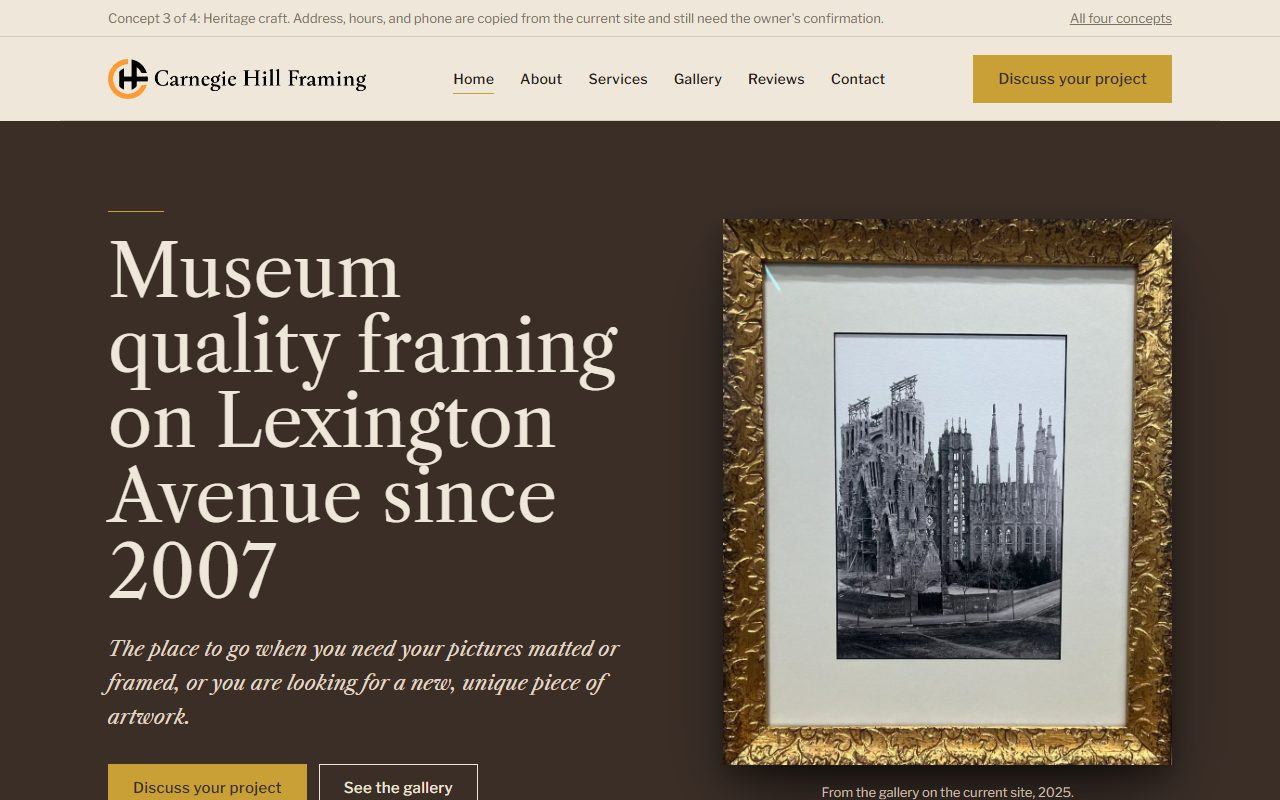
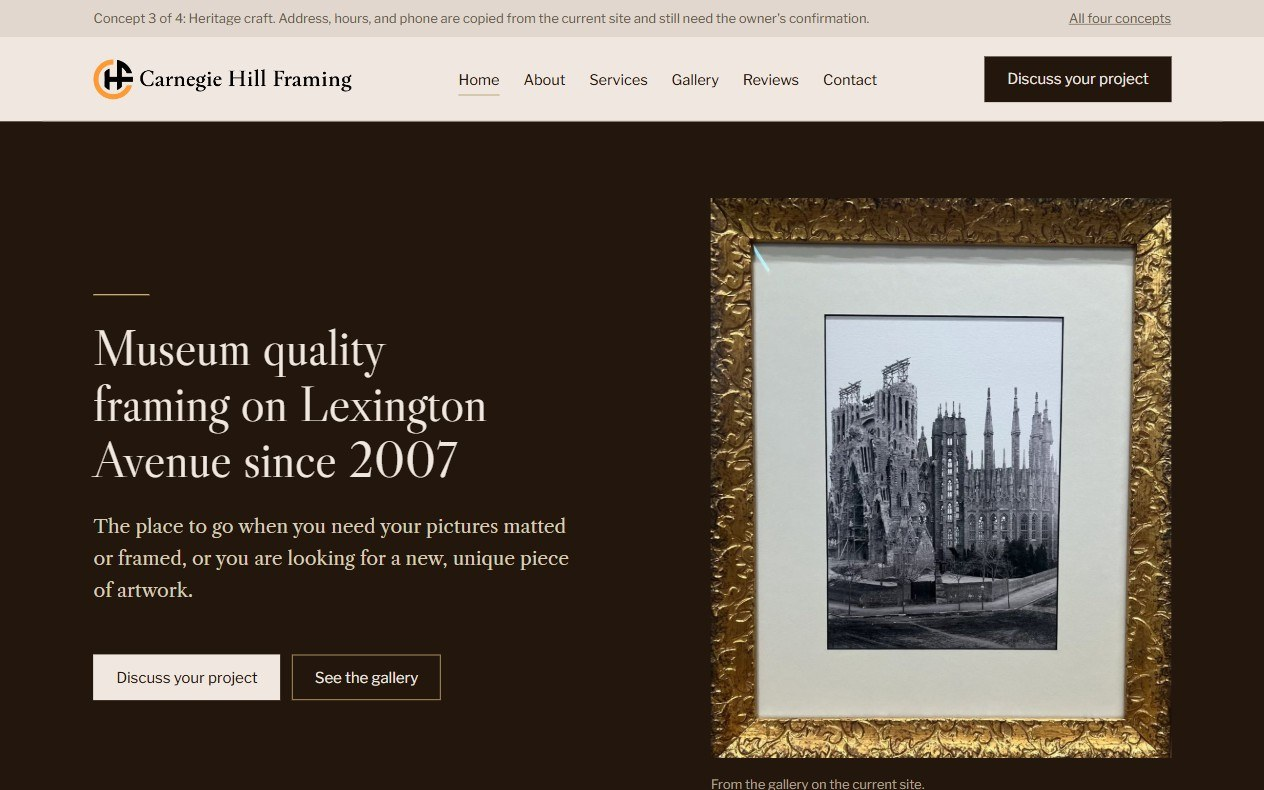
Rebuild the chooser page, refresh thumbnails, and record the sourcing
The chooser now carries the four current concepts with swatches taken from each
concept's sampled palette, and a short note saying where the colours and the
writing come from, since that is what the owner is being asked to trust.

Adds docs/colour-sources.md: the seven anchor colours, the photo and region each
was measured from, how the ramps are built, and the two contrast pairs that
failed the first check and were corrected rather than accepted.

Also removes two claims the site does not support. The gallery pages said the
archive goes "back to 2020"; the site gives no start year and the photos in
/assets run back to November 2024, so that was both unsourced and wrong. And a
caption named a photo as a record and its sleeve when the photo it sat on is not
one. Captions now name only what is visible in the photo they belong to.

Verified across all nine pages at 375px and 1440px: no horizontal overflow, all
473 local references resolve, both gallery mode toggles switch panels and
aria-pressed correctly, and no em dash or en dash appears anywhere.

diff --git a/index.html b/index.html
@@ -8,96 +8,140 @@
 <meta name="robots" content="noindex">
 <link rel="preconnect" href="https://fonts.googleapis.com">
 <link rel="preconnect" href="https://fonts.gstatic.com" crossorigin>
-<link href="https://fonts.googleapis.com/css2?family=Libre+Franklin:wght@400;500;600&display=swap" rel="stylesheet">
+<link href="https://fonts.googleapis.com/css2?family=Public+Sans:wght@400;500;600&display=swap" rel="stylesheet">
+<link rel="icon" href="assets/logo.png">
 <style>
-  :root{--bg:#FFFFFF;--ink:#1E1D1B;--mid:#66635E;--line:#DEDBD4}
-  *{box-sizing:border-box}
-  body{margin:0;background:var(--bg);color:var(--ink);font-family:"Libre Franklin",system-ui,sans-serif;font-size:17px;line-height:1.55}
+  :root{
+    --page:#FBFBFA; --panel:#F1F1EF; --rule:#DCDCD8; --ink:#1A1A18; --quiet:#5E5E59;
+    --s2:8px; --s3:12px; --s4:16px; --s5:24px; --s6:32px; --s7:48px; --s8:64px; --s9:96px;
+    --gut:clamp(20px,4vw,56px);
+  }
+  *,*::before,*::after{box-sizing:border-box}
+  @media (prefers-reduced-motion:reduce){*,*::before,*::after{transition-duration:.01ms!important}}
+  body{
+    margin:0;background:var(--page);color:var(--ink);
+    font-family:"Public Sans",system-ui,-apple-system,sans-serif;
+    font-size:17px;line-height:1.6;font-synthesis-weight:none;
+  }
+  img{display:block;max-width:100%}
+  p{margin:0}
   a{color:inherit}
   :focus-visible{outline:2px solid var(--ink);outline-offset:3px}
-  .wrap{max-width:1240px;margin:0 auto;padding:0 clamp(20px,4vw,48px)}
-  header{padding:clamp(48px,7vw,96px) 0 clamp(32px,4vw,56px);border-bottom:1px solid var(--line)}
-  h1{font-size:clamp(30px,4.5vw,52px);font-weight:600;letter-spacing:-0.015em;line-height:1.08;margin:0;max-width:18ch}
-  header p{margin:20px 0 0;max-width:62ch;color:var(--mid);font-size:18px}
-  .grid{display:grid;grid-template-columns:1fr 1fr;gap:40px 32px;padding:48px 0 clamp(48px,7vw,96px)}
+  .skip{position:absolute;left:-9999px;top:8px;background:var(--ink);color:var(--page);padding:10px 14px;z-index:10;text-decoration:none}
+  .skip:focus{left:8px}
+
+  .wrap{max-width:1280px;margin-inline:auto;padding-inline:var(--gut)}
+
+  header{padding-block:clamp(48px,7vw,96px) clamp(32px,4vw,56px);border-bottom:1px solid var(--rule)}
+  .mark{height:38px;width:auto;margin-bottom:var(--s7)}
+  h1{font-size:clamp(29px,3.6vw,46px);font-weight:600;letter-spacing:-.022em;line-height:1.12;margin:0;max-width:20ch;text-wrap:balance}
+  header p{margin-top:var(--s5);max-width:62ch;color:var(--quiet);font-size:18px;text-wrap:pretty}
+
+  .grid{display:grid;grid-template-columns:1fr 1fr;gap:clamp(40px,5vw,72px) clamp(28px,3.5vw,48px);padding-block:clamp(40px,5vw,72px)}
   .card{display:block;text-decoration:none}
-  .thumb{aspect-ratio:16/10;overflow:hidden;border:1px solid var(--line);background:#F3F1EC}
-  .thumb img{width:100%;height:100%;object-fit:cover;object-position:top}
-  .card:hover .thumb{border-color:var(--ink)}
-  .card .body{padding:18px 0 0}
-  .card h2{font-size:24px;font-weight:600;margin:0 0 6px;letter-spacing:-0.01em}
-  .card .n{color:var(--mid);font-size:14px;display:block;margin-bottom:10px}
-  .card p{margin:0;color:var(--mid);font-size:16px}
-  .card .tokens{display:flex;gap:6px;margin-top:14px}
-  .card .tokens span{width:22px;height:22px;border:1px solid rgba(0,0,0,.12)}
-  .also{border-top:1px solid var(--line);padding:32px 0 48px;color:var(--mid);font-size:16px}
-  .also h3{font-size:16px;font-weight:600;color:var(--ink);margin:0 0 8px}
-  .also ul{margin:0;padding-left:18px}
-  footer{border-top:1px solid var(--line);padding:28px 0 48px;font-size:15px;color:var(--mid);margin-top:48px}
-  footer p{margin:0 0 8px}
-  @media (max-width:760px){.grid{grid-template-columns:1fr}}
+  .shot{aspect-ratio:16/10;overflow:hidden;border:1px solid var(--rule);background:var(--panel)}
+  .shot img{width:100%;height:100%;object-fit:cover;object-position:top}
+  .card:hover .shot{border-color:var(--ink)}
+  .body{padding-top:var(--s5)}
+  .n{color:var(--quiet);font-size:14px;display:block;margin-bottom:var(--s2)}
+  .card h2{font-size:23px;font-weight:600;margin:0 0 var(--s3);letter-spacing:-.015em}
+  .card:hover h2{text-decoration:underline;text-underline-offset:3px}
+  .card p{color:var(--quiet);font-size:16px;text-wrap:pretty}
+  .swatches{display:flex;gap:6px;margin-top:var(--s5)}
+  .swatches span{width:26px;height:26px;border:1px solid rgb(0 0 0 / .14)}
+
+  .how{border-top:1px solid var(--rule);padding-block:var(--s7) var(--s9);display:grid;grid-template-columns:1fr 1fr;gap:clamp(28px,5vw,80px)}
+  .how h2{font-size:17px;font-weight:600;margin:0 0 var(--s4)}
+  .how ul{margin:0;padding-left:20px;color:var(--quiet);font-size:16px}
+  .how li{margin-bottom:var(--s2)}
+  .how p{color:var(--quiet);font-size:16px;margin-bottom:var(--s4);text-wrap:pretty}
+
+  @media (max-width:820px){
+    .grid,.how{grid-template-columns:1fr}
+    .how{gap:var(--s6)}
+  }
 </style>
 </head>
 <body>
-<main class="wrap">
-  <header>
-    <h1>Four design concepts for nyframing.com</h1>
-    <p>Each concept shows the Home page and a Gallery page. All four use the shop's real photos, the real logo, the reviews already on the current site, and the address, hours, and phone number as the current site lists them. Those details still need the owner's confirmation. Pick one, or tell us which parts of two to combine.</p>
-  </header>
+<a class="skip" href="#concepts">Skip to the concepts</a>
 
+<header>
+  <div class="wrap">
+    <img class="mark" src="assets/logo.png" alt="Carnegie Hill Framing" width="152" height="38">
+    <h1>Four design concepts for nyframing.com</h1>
+    <p>Each concept shows a home page and a gallery page. All four use the shop's real photographs, the real logo, the reviews already on the current site, and the address, hours, and phone number as the current site lists them. Those details still need your confirmation. Pick one, or tell us which parts of two to combine.</p>
+  </div>
+</header>
+
+<main class="wrap" id="concepts">
   <div class="grid">
-    <a class="card" href="familiar-evolution/index.html">
-      <div class="thumb"><img src="thumbs/familiar-evolution.jpg" alt="Familiar evolution concept, home page"></div>
+
+    <a class="card" href="mat-board/index.html">
+      <div class="shot"><img src="thumbs/mat-board.jpg" alt="Mat board concept, home page"></div>
       <div class="body">
         <span class="n">Concept 1</span>
-        <h2>Familiar evolution</h2>
-        <p>The current site, tidied. Same logo, same headline, same wall photo, same page order. Contact details move from the footer to just under the hero, and the reviews are the ones already on the site.</p>
-        <div class="tokens" aria-hidden="true"><span style="background:#FFFFFF"></span><span style="background:#111111"></span><span style="background:#F09030"></span><span style="background:#F5F5F5"></span></div>
+        <h2>Mat board</h2>
+        <p>Quiet and gallery like. Every picture is mounted on a board with a deeper margin at the bottom and its label printed in that margin, which is how a mat is actually cut. Cool grey greens read off the mat board in the shop's own photographs, with one olive gilt hairline.</p>
+        <div class="swatches" aria-hidden="true">
+          <span style="background:#E9ECEA"></span><span style="background:#F6F8F7"></span><span style="background:#161922"></span><span style="background:#A18547"></span>
+        </div>
       </div>
     </a>
 
-    <a class="card" href="gallery-led/index.html">
-      <div class="thumb"><img src="thumbs/gallery-led.jpg" alt="Gallery-led concept, home page"></div>
+    <a class="card" href="the-hang/index.html">
+      <div class="shot"><img src="thumbs/the-hang.jpg" alt="The hang concept, home page"></div>
       <div class="body">
         <span class="n">Concept 2</span>
-        <h2>Gallery-led</h2>
-        <p>The gallery is the page. A wall of real framed pieces opens the site, the headline sits on a white plate like a wall label, and every photo gets a small museum style caption. Condensed type, black and white, one gilt rule.</p>
-        <div class="tokens" aria-hidden="true"><span style="background:#FAFAF7"></span><span style="background:#151515"></span><span style="background:#B48A2E"></span><span style="background:#EFEEE9"></span></div>
+        <h2>The hang</h2>
+        <p>The shop's frames are black and its mats are white, so the page carries no colour of its own and the work supplies all of it. Pictures sit in rows that share one centre line, the way they are hung on a wall, and the line runs the length of the row behind them.</p>
+        <div class="swatches" aria-hidden="true">
+          <span style="background:#13161F"></span><span style="background:#3C3F4A"></span><span style="background:#8E929D"></span><span style="background:#E8EAE9"></span>
+        </div>
       </div>
     </a>
 
     <a class="card" href="heritage-craft/index.html">
-      <div class="thumb"><img src="thumbs/heritage-craft.jpg" alt="Heritage craft concept, home page"></div>
+      <div class="shot"><img src="thumbs/heritage-craft.jpg" alt="Heritage craft concept, home page"></div>
       <div class="body">
         <span class="n">Concept 3</span>
         <h2>Heritage craft</h2>
-        <p>Gilt and black. One ornate gold framed piece hangs on a dark wall beside a Caslon headline. Sections alternate between the dark wall and a linen mat. The quiet, older shop feel.</p>
-        <div class="tokens" aria-hidden="true"><span style="background:#1B1512"></span><span style="background:#C9A035"></span><span style="background:#EFE8DA"></span><span style="background:#221C18"></span></div>
+        <p>The older, quieter shop. Caslon on a dark wall the colour of the shop's own window frames, with the gilt taken off a gilt frame in the gallery, so it is olive rather than bright yellow. The gallery pieces hang on the dark wall.</p>
+        <div class="swatches" aria-hidden="true">
+          <span style="background:#23160C"></span><span style="background:#A18547"></span><span style="background:#F0E8E0"></span><span style="background:#E1D7CE"></span>
+        </div>
       </div>
     </a>
 
     <a class="card" href="shop-front/index.html">
-      <div class="thumb"><img src="thumbs/shop-front.jpg" alt="Shop front concept, home page"></div>
+      <div class="shot"><img src="thumbs/shop-front.jpg" alt="Shop front concept, home page"></div>
       <div class="body">
         <span class="n">Concept 4</span>
         <h2>Shop front</h2>
-        <p>Built from the actual storefront: the burgundy awning becomes the masthead, the yellow facade becomes the hero, and hours sit on a black sign strip underneath. Flat colour blocks, thick black rules, no cards or shadows.</p>
-        <div class="tokens" aria-hidden="true"><span style="background:#7B2D3A"></span><span style="background:#D8A428"></span><span style="background:#141414"></span><span style="background:#FFFFFF"></span></div>
+        <p>Built from the storefront. The burgundy awning crowns the page with its scalloped edge, the shop itself runs full width underneath, and the hours sit on a black sign strip below that. The yellow of the facade appears as one band, not as a whole page.</p>
+        <div class="swatches" aria-hidden="true">
+          <span style="background:#753644"></span><span style="background:#B38F23"></span><span style="background:#2D1E13"></span><span style="background:#FFFFFF"></span>
+        </div>
       </div>
     </a>
+
   </div>
 
-  <div class="also">
+  <div class="how">
     <div>
-      <h3>How to review</h3>
+      <h2>How to review</h2>
       <ul>
-        <li>Open each concept on a phone as well as a desktop.</li>
-        <li>Every page has a link back here at the top.</li>
-        <li>The Gallery page on each concept has a second tab showing frame samples and the shop.</li>
+        <li>Open each concept on a phone as well as a computer.</li>
+        <li>Every page has a link back to this one at the top.</li>
+        <li>The gallery page on each concept has a second tab showing frame samples and the shop.</li>
       </ul>
     </div>
+    <div>
+      <h2>Where the colours come from</h2>
+      <p>No colour on any of the four was picked by eye. Each one is a colour measured from a pixel in the shop's own photographs: the mat board, the gilt frames, the burgundy awning, the yellow facade, and the black window frames.</p>
+      <p>Every line of writing is either copied from the current site or is a plain description of something visible in one of the photographs. Nothing about the business has been invented, and the notes on each page mark what still needs your confirmation.</p>
+    </div>
   </div>
-
 </main>
+
 </body>
 </html>

diff --git a/docs/colour-sources.md b/docs/colour-sources.md
@@ -1,0 +1,52 @@
+# Where every colour comes from
+
+No colour in any of the four concepts was chosen by eye. Each palette is built from
+anchor colours measured directly out of the shop's own photographs in `/assets`, then
+extended into a light and dark ramp in OKLCH so the hue and the character of the
+original colour survive at every step.
+
+## The anchors
+
+Each value below is the median pixel of a named region of a named photo.
+
+| Anchor | Hex | Read from |
+|---|---|---|
+| Mat board | `#DADDDB` | `work-17.jpg`, the mat around the engraving |
+| Frame black | `#13161F` | `work-01.jpg`, the frame |
+| Gilt | `#A18547` | `work-24.jpg`, the gilt frame |
+| Window mullion | `#2D1E13` | `storefront.jpg`, the black window frames |
+| Moulding face | `#907E6D` | `samples.jpg`, the face of a sample |
+| Awning | `#8A4856` | `storefront.jpg`, the awning, clear of the lettering |
+| Facade | `#B38F21` | `storefront.jpg`, the yellow shutter |
+
+Three of these were a surprise and all three changed the designs:
+
+- The shop's mat board is a **cool grey green**, not the warm cream that framing is
+  usually drawn with. Concept 1 is built on that.
+- The frame black is a **blue black**, not a neutral or a warm one. Concept 2 uses it
+  as its only ground.
+- The gilt is **olive and dusty**, not bright yellow. The earlier draft of concept 3
+  used `#C9A035`, which was picked by eye and is much brighter than any gold in the
+  shop.
+
+## The ramps
+
+Anchors are converted to OKLCH, held at their measured hue, and stepped in lightness.
+Chroma is reduced towards both ends of each ramp so no step leaves the sRGB gamut and
+no step turns candy coloured. The script that does this is not part of the site; the
+resulting values are written into each concept's `:root` block with a comment naming
+the photo they came from.
+
+## Contrast
+
+Every pair of colours that carries text was checked before it shipped:
+
+- body text against its background: 4.5:1 or better
+- large display text and non text interface parts: 3:1 or better
+
+Two pairs failed the first pass and were corrected rather than accepted. Heritage
+craft's secondary text was darkened to `#675849`, and Mat board's focus ring was moved
+off the gilt, which measured 2.96:1 against the page, onto the ink at 14.8:1.
+
+Hairlines that only separate content, and carry no meaning on their own, sit below 3:1
+on purpose. Nothing is indicated by colour alone.

diff --git a/docs/copy-sources.md b/docs/copy-sources.md
@@ -1,6 +1,6 @@
 # Where every line of copy comes from
 
-Checked on 12 September 2026 after removing all inferred, assumed, and invented wording from the four concepts.
+Checked on 12 September 2026 after removing all inferred, assumed, and invented wording from the four concepts, and checked again during the redesign that replaced two of the four.
 
 ## Copied from the live site, word for word or lightly shortened
 
@@ -42,3 +42,12 @@ Checked on 12 September 2026 after removing all inferred, assumed, and invented 
 - "A family shop"
 - One line descriptions written for each service
 - Guessed mediums in gallery captions (etching, watercolor, oil)
+- "It holds about 400 going back to 2020" on the gallery pages. The site does not give a
+  start year, and the photos in /assets run back to November 2024, so the claim was both
+  unsourced and wrong. Replaced with "which holds about 400 of them".
+- A caption naming one gallery photo as a record and its sleeve. The site does say one
+  photo shows a record and its sleeve, but which file that is was never established, and
+  the photo the caption sat on is not one. Captions now name only what can be seen in the
+  photo they belong to.
+- A year on a single gallery caption. Years were read from the site's upload folders, but
+  the mapping from folder to individual file was never recorded, so no caption claims one.
